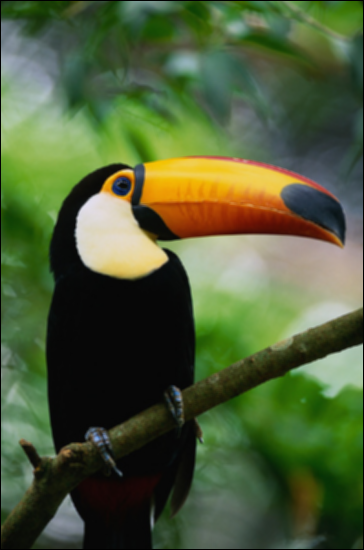
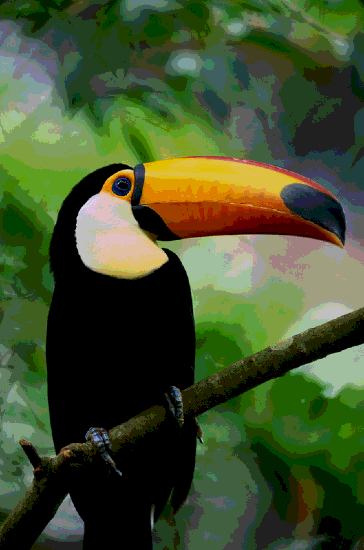
Simple plugins

diff --git a/src/pl/edu/misztal/imageprocessing/plugins/resize/Resize.java b/src/pl/edu/misztal/imageprocessing/plugins/resize/Resize.java
@@ -1,0 +1,34 @@
+package pl.edu.misztal.imageprocessing.plugins.resize;
+
+import java.awt.Graphics2D;
+import java.awt.image.BufferedImage;
+import pl.edu.misztal.imageprocessing.image.Image;
+import pl.edu.misztal.imageprocessing.image.plugins.Plugin;
+import pl.edu.misztal.imageprocessing.image.utils.Attributes;
+import pl.edu.misztal.imageprocessing.image.utils.Mask;
+
+/**
+ *
+ * @author Krzysztof
+ */
+public class Resize extends Plugin {
+
+    @Override
+    public void process(Image imgIn, Image imgOut, Attributes attrOut, Mask mask) {
+        if (getAttribute("width") != null && getAttribute("height") != null) {
+            final int width = (int) getAttribute("width");
+            final int height = (int) getAttribute("height");
+            imgOut.setBufferedImage(resizeImage(imgIn.getBufferedImage(), width, height));
+        }
+    }
+
+    public BufferedImage resizeImage(BufferedImage image, int width, int height) {
+        int type = 0;
+        type = image.getType() == 0 ? BufferedImage.TYPE_INT_ARGB : image.getType();
+        BufferedImage resizedImage = new BufferedImage(width, height, type);
+        Graphics2D g = resizedImage.createGraphics();
+        g.drawImage(image, 0, 0, width, height, null);
+        g.dispose();
+        return resizedImage;
+    }
+}

diff --git a/src/pl/edu/misztal/imageprocessing/test/LoadAndSave.java b/src/pl/edu/misztal/imageprocessing/test/LoadAndSave.java
@@ -3,6 +3,7 @@ package pl.edu.misztal.imageprocessing.test;
 import pl.edu.misztal.imageprocessing.image.Image;
 import pl.edu.misztal.imageprocessing.image.plugins.Plugin;
 import pl.edu.misztal.imageprocessing.plugins.convolve.Blur;
+import pl.edu.misztal.imageprocessing.plugins.threshold.Posterize;
 import pl.edu.misztal.imageprocessing.plugins.threshold.Threshold;
 
 /**
@@ -17,7 +18,7 @@ public class LoadAndSave {
         Image image = new Image(filename);
 
         //load plugin
-        Plugin plugin = new Blur();
+        Plugin plugin = new Posterize();
         plugin.process(image);
 
         //save results

diff --git a/src/pl/edu/misztal/imageprocessing/plugins/convolve/Sharpen.java b/src/pl/edu/misztal/imageprocessing/plugins/convolve/Sharpen.java
@@ -1,0 +1,24 @@
+package pl.edu.misztal.imageprocessing.plugins.convolve;
+
+import pl.edu.misztal.imageprocessing.plugins.util.ConvolutionPlugin;
+
+/**
+ *
+ * @author Krzysztof
+ */
+public class Sharpen extends ConvolutionPlugin {
+
+    @Override
+    protected void createKernel() {
+        kernel = new float[]{
+             0.0f, -1.0f,  0.0f,
+            -1.0f,  5.0f, -1.0f,
+             0.0f, -1.0f,  0.0f
+        };
+    }
+
+    @Override
+    protected void setKernelSize() {
+    }
+
+}

diff --git a/src/pl/edu/misztal/imageprocessing/plugins/threshold/Posterize.java b/src/pl/edu/misztal/imageprocessing/plugins/threshold/Posterize.java
@@ -1,0 +1,20 @@
+package pl.edu.misztal.imageprocessing.plugins.threshold;
+
+import pl.edu.misztal.imageprocessing.plugins.util.LookUpTablePlugin;
+
+/**
+ *
+ * @author Krzysztof
+ */
+public class Posterize extends LookUpTablePlugin {
+
+    @Override
+    protected void createLUT() {
+
+        LUT = new short[256];
+        for (int i = 0; i < 256; i++) {
+            LUT[i] = (short) (i - (i % 32));
+        }
+    }
+
+}

diff --git a/src/pl/edu/misztal/imageprocessing/image/Image.java b/src/pl/edu/misztal/imageprocessing/image/Image.java
@@ -149,8 +149,8 @@ public class Image extends AbstractImage {
     }
 
     public void setBufferedImage(BufferedImage im) {
-        if(width != im.getWidth() || height != im.getHeight())
-            throw new UnsupportedOperationException("Not compatible images");
         image = im;
+        width = im.getWidth();
+        height = im.getHeight();
     }
 }
